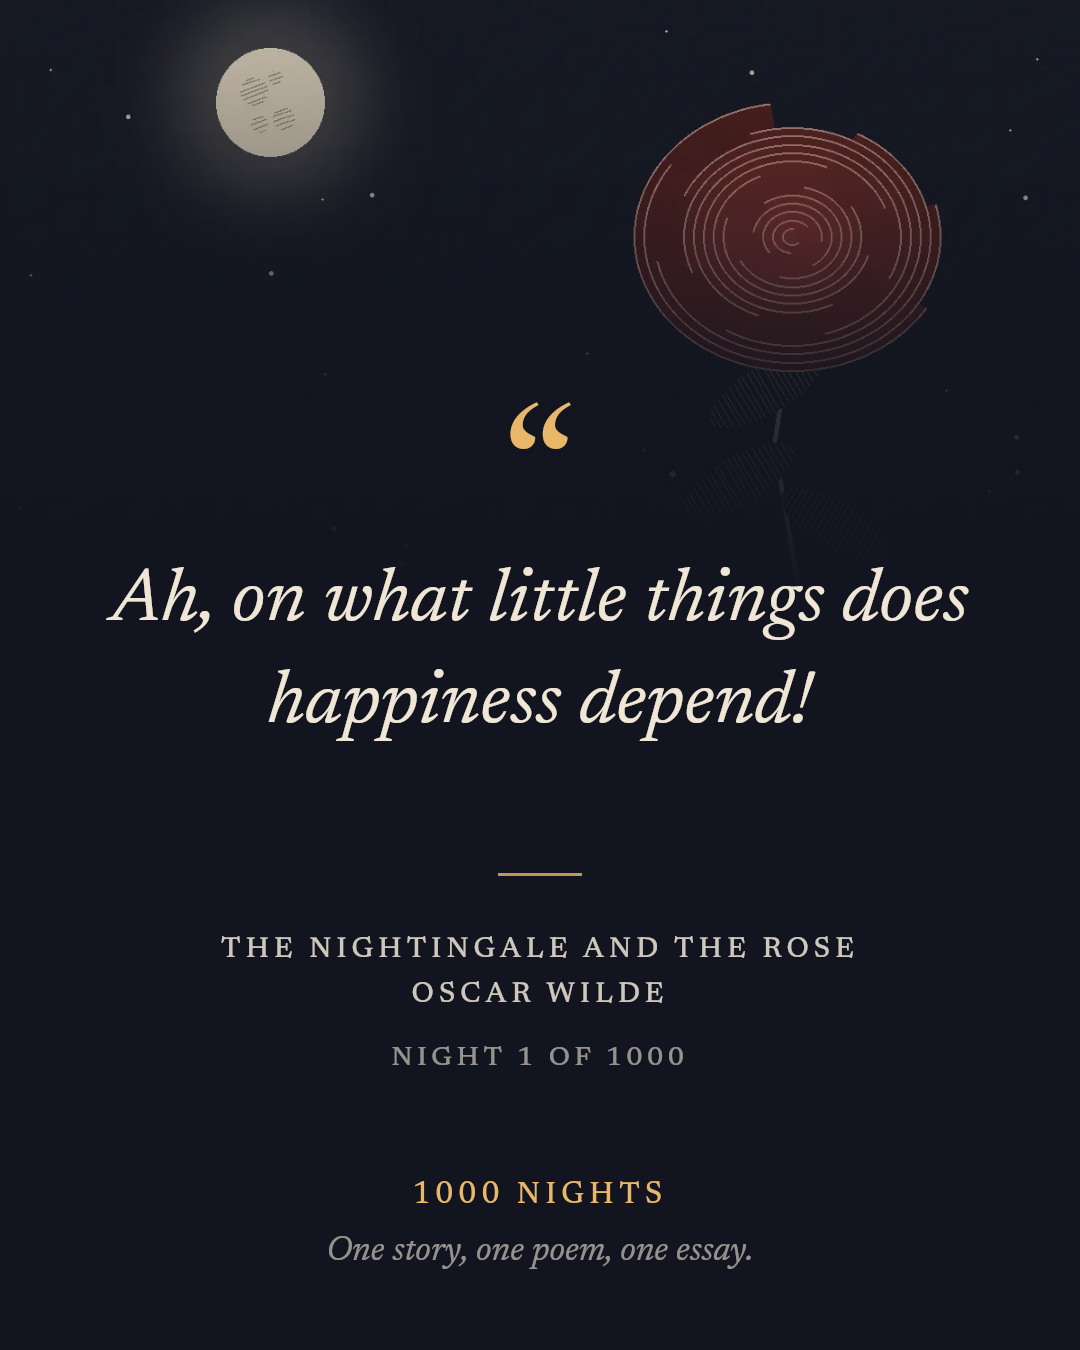
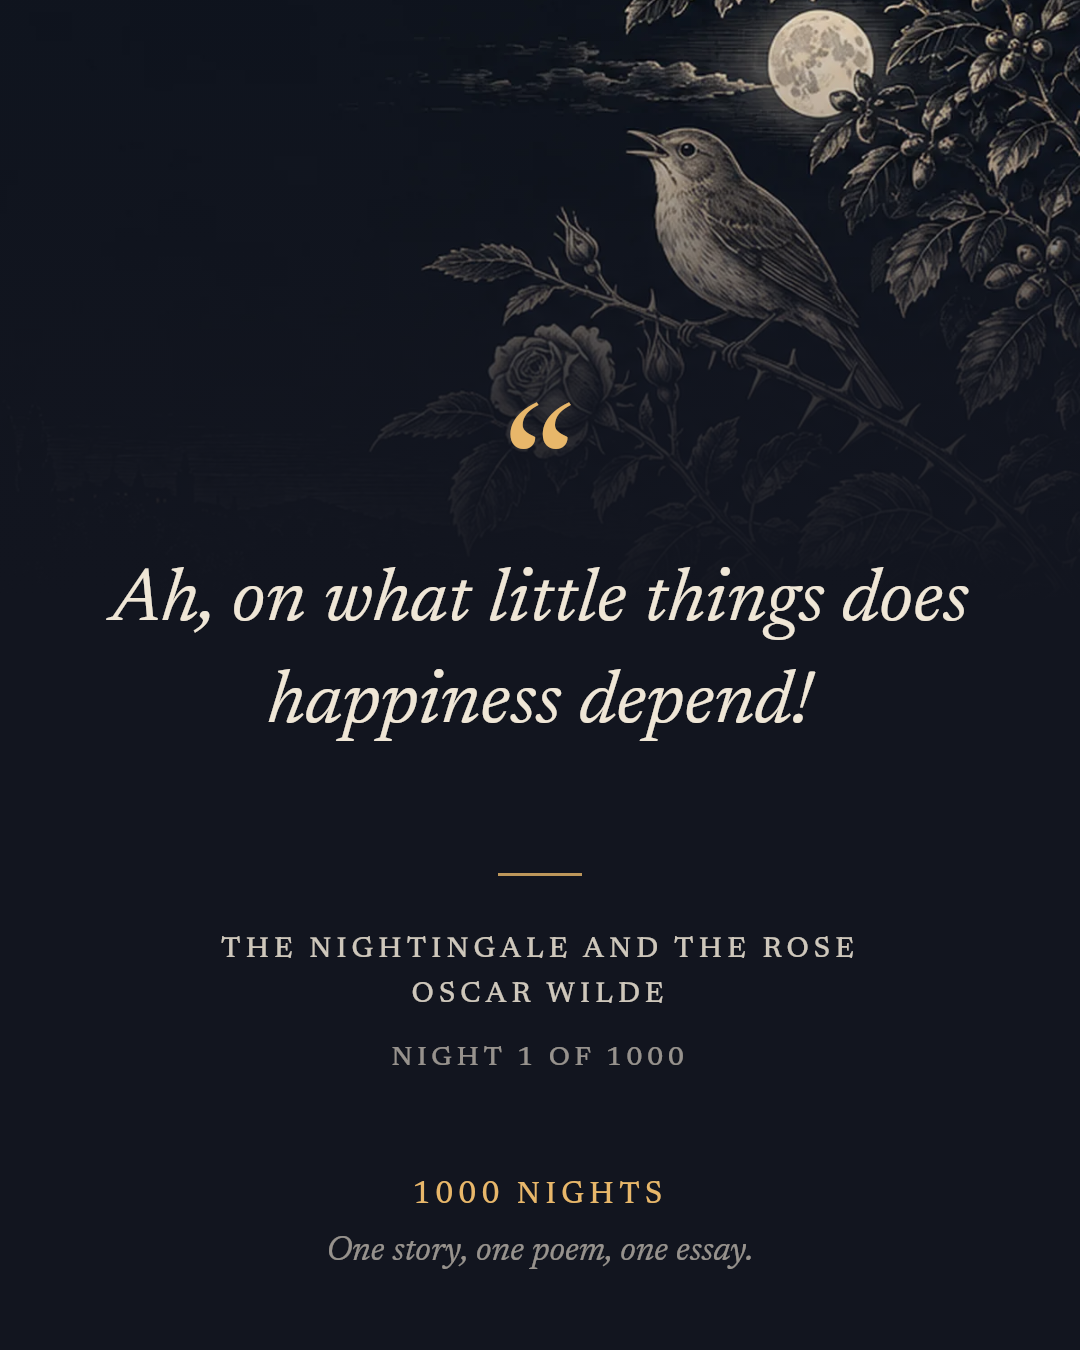
Replace placeholder card art with generated engravings
Add the 12 theme engravings (including new hearth and river) and an own
engraving for each of the 21 pieces in nights 1-7, at 1x and 2x WebP.
Rebuild pack 1 as version 2 so installed apps re-import the new image paths,
and regenerate the screenshots.

Claude-Session: https://claude.ai/code/session_01KF8ZHu2FrdMdf5x5UP1xsr

diff --git a/content/reports/pack-001.md b/content/reports/pack-001.md
@@ -4,27 +4,27 @@ Nights 1-7, 21 pieces, 230 wpm.
 
 | Night | Type | Title | Author | Words | Min | Art | Flag |
 | --- | --- | --- | --- | --- | --- | --- | --- |
-| 1 | story | The Nightingale and the Rose | Oscar Wilde | 2326 | 10 | theme |  |
-| 1 | poem | A Dream Within a Dream | Edgar Allan Poe | 141 | 1 | theme |  |
-| 1 | essay | El Dorado | Robert Louis Stevenson | 1164 | 5 | theme |  |
-| 2 | story | The Gift of the Magi | O. Henry | 2078 | 9 | theme |  |
-| 2 | poem | Hope | Emily Dickinson | 69 | 1 | theme |  |
-| 2 | essay | On Reading and Books | Arthur Schopenhauer | 1810 | 8 | theme |  |
-| 3 | story | Araby | James Joyce | 2328 | 10 | theme |  |
-| 3 | poem | Where the Mind Is Without Fear | Rabindranath Tagore | 90 | 1 | theme |  |
-| 3 | essay | Walking Tours | Robert Louis Stevenson | 1723 | 7 | theme |  |
-| 4 | story | Désirée's Baby | Kate Chopin | 2151 | 9 | theme |  |
-| 4 | poem | When I Heard the Learn'd Astronomer | Walt Whitman | 82 | 1 | theme |  |
-| 4 | essay | Walking | Henry David Thoreau | 1885 | 8 | theme |  |
-| 5 | story | The Little Match-Seller | Hans Christian Andersen | 991 | 4 | theme | outside 8-15 min |
-| 5 | poem | How Do I Love Thee? | Elizabeth Barrett Browning | 126 | 1 | theme |  |
-| 5 | essay | The Cup of Humanity | Kakuzo Okakura | 1757 | 8 | theme |  |
-| 6 | story | Dr. Heidegger's Experiment | Nathaniel Hawthorne | 3674 | 16 | theme | outside 8-15 min |
-| 6 | poem | A Noiseless Patient Spider | Walt Whitman | 87 | 1 | theme |  |
-| 6 | essay | The Common Reader | Virginia Woolf | 334 | 1 | theme | outside 5-10 min |
-| 7 | story | Kew Gardens | Virginia Woolf | 2608 | 11 | theme |  |
-| 7 | poem | The Chariot | Emily Dickinson | 107 | 1 | theme |  |
-| 7 | essay | On Noise | Arthur Schopenhauer | 1603 | 7 | theme |  |
+| 1 | story | The Nightingale and the Rose | Oscar Wilde | 2326 | 10 | own |  |
+| 1 | poem | A Dream Within a Dream | Edgar Allan Poe | 141 | 1 | own |  |
+| 1 | essay | El Dorado | Robert Louis Stevenson | 1164 | 5 | own |  |
+| 2 | story | The Gift of the Magi | O. Henry | 2078 | 9 | own |  |
+| 2 | poem | Hope | Emily Dickinson | 69 | 1 | own |  |
+| 2 | essay | On Reading and Books | Arthur Schopenhauer | 1810 | 8 | own |  |
+| 3 | story | Araby | James Joyce | 2328 | 10 | own |  |
+| 3 | poem | Where the Mind Is Without Fear | Rabindranath Tagore | 90 | 1 | own |  |
+| 3 | essay | Walking Tours | Robert Louis Stevenson | 1723 | 7 | own |  |
+| 4 | story | Désirée's Baby | Kate Chopin | 2151 | 9 | own |  |
+| 4 | poem | When I Heard the Learn'd Astronomer | Walt Whitman | 82 | 1 | own |  |
+| 4 | essay | Walking | Henry David Thoreau | 1885 | 8 | own |  |
+| 5 | story | The Little Match-Seller | Hans Christian Andersen | 991 | 4 | own | outside 8-15 min |
+| 5 | poem | How Do I Love Thee? | Elizabeth Barrett Browning | 126 | 1 | own |  |
+| 5 | essay | The Cup of Humanity | Kakuzo Okakura | 1757 | 8 | own |  |
+| 6 | story | Dr. Heidegger's Experiment | Nathaniel Hawthorne | 3674 | 16 | own | outside 8-15 min |
+| 6 | poem | A Noiseless Patient Spider | Walt Whitman | 87 | 1 | own |  |
+| 6 | essay | The Common Reader | Virginia Woolf | 334 | 1 | own | outside 5-10 min |
+| 7 | story | Kew Gardens | Virginia Woolf | 2608 | 11 | own |  |
+| 7 | poem | The Chariot | Emily Dickinson | 107 | 1 | own |  |
+| 7 | essay | On Noise | Arthur Schopenhauer | 1603 | 7 | own |  |
 
 | Night | Total min | Flag |
 | --- | --- | --- |

diff --git a/docs/PROGRESS.md b/docs/PROGRESS.md
@@ -37,7 +37,8 @@ The three cards are rendered by the screenshot test: [highlight](screenshots/sha
 
 - [x] [illustration-prompts.md](illustration-prompts.md): the style lock, prompt templates for Midjourney, GPT-image and SDXL/Flux, prompts for the 12 theme engravings and for all 21 pieces in nights 1 to 7, and the drop-in steps.
 - [x] `build_pack.py` uses `images/<work id>.webp` when it exists at 1x and 2x and falls back to the theme image. The measure report says which one each work got. `--version` bumps the pack version so installed apps pick up new art. `placeholder_art.py` no longer overwrites existing files without `--force`.
-- [ ] Generate and approve the real art. Decide whether the Nightingale card may keep the mockup's muted red rose (the style lock is amber only).
+- [x] Real art for nights 1 to 7: the 12 theme engravings (the 10 placeholder themes plus `hearth` and `river`) and one engraving for each of the 21 pieces, exported to 1200 x 800 and 600 x 400 WebP. Every work now uses its own image, and pack 1 is version 2. The rose is drawn in parchment, so the red-rose question is moot.
+- [ ] Replace the 2x files with exports from the full-size originals. These were cut from 2x2 review sheets, so most sources were about 665 px wide and the 1200 px files are upscaled. Only "On Noise" came from a full-size image.
 
 
 ## 2026-10-03: Scaffold (phase 0 complete, most of phase 1, parts of phases 2 to 4)
@@ -89,7 +90,7 @@ The three cards are rendered by the screenshot test: [highlight](screenshots/sha
 - [x] Rights check: the 1930 rule is enforced at build time, and every work gets a `rights_note`.
 - [ ] Curate nights 8–90.
 - [ ] Read-through of every piece on a phone.
-- [ ] Real illustrations. 10 procedural placeholders stand in for them.
+- [x] Real illustrations for nights 1 to 7 (2026-10-14).
 
 ### Screenshots
 

diff --git a/README.md b/README.md
@@ -11,8 +11,9 @@ See the [PRD and build plan](docs/PRD.md) and the [progress log](docs/PROGRESS.m
 ![Tonight, Reader and Journey, rendered from the app](docs/screenshots/hero.png)
 
 <sub>These are real screens rendered from the app with the bundled 7-night test pack
-(night 7, after a debug jump). They are not mockups. The card engravings are
-procedural placeholders. The approved mockups are in
+(night 7, after a debug jump). They are not mockups. The card engravings are the
+generated art for nights 1 to 7 (see [docs/illustration-prompts.md](docs/illustration-prompts.md)).
+The approved mockups are in
 [docs/mockups](docs/mockups/approved-mockups.webp).</sub>
 
 ![Tonight mid-night, Night complete, Library, and the Sepia reader theme](docs/screenshots/more.png)
